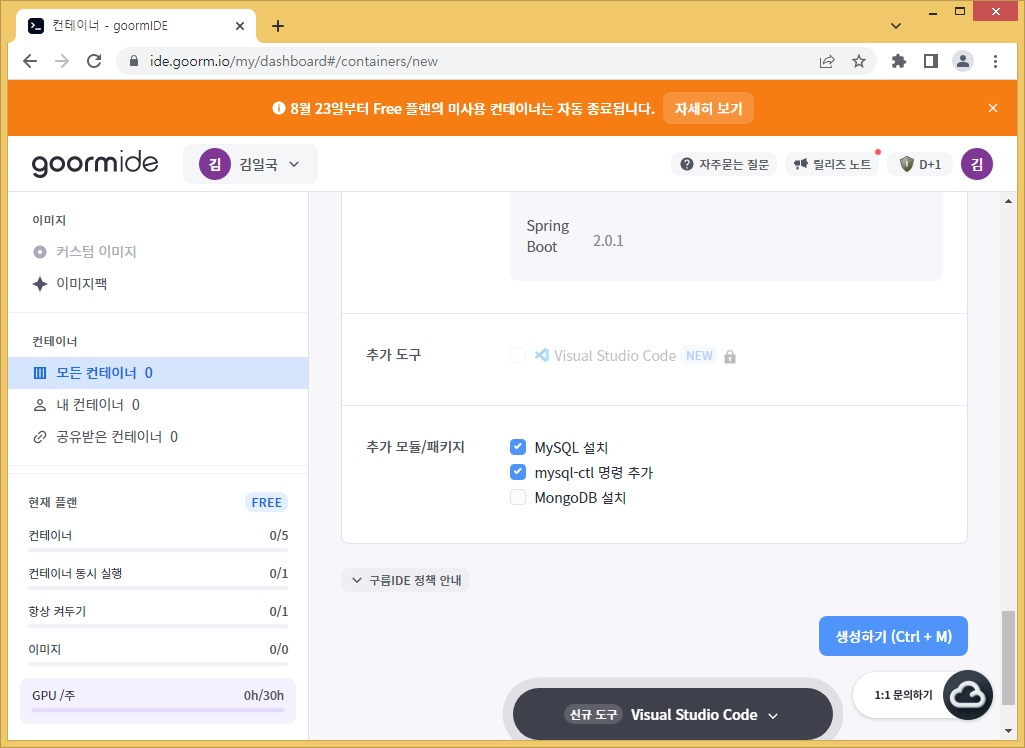
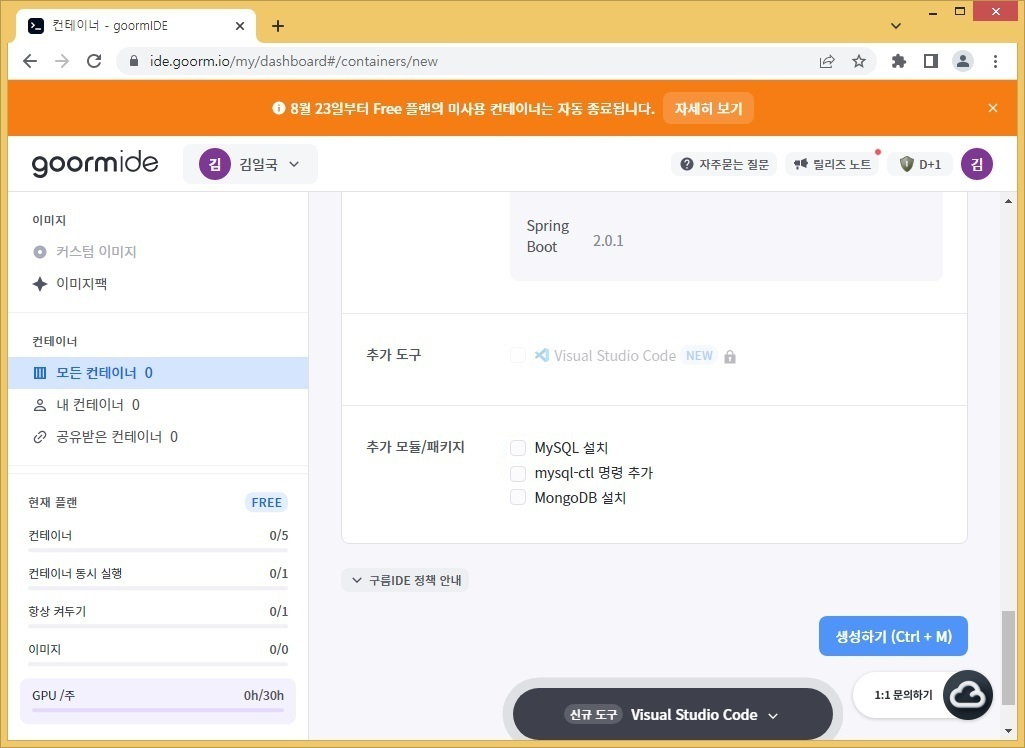
구름ide용 H2 DB를 사용한 간편한 실행소스

diff --git a/README.md b/README.md
@@ -67,8 +67,8 @@ jar {
 - ![스프링부트 템플릿을 선택](./README/goorm5.jpg)
 - 템플릿 중 그래들 빌더 프로젝트를 선택한다.(아래)
 - ![그래들 빌더 프로젝트를 선택](./README/goorm6.jpg)
-- 강의에서는 H2와 postgreSQL DB 2가지를 사용하지만, MySQL과 mysql-ctl을 선택 후 생성하기 버튼 클릭 한다.(아래)
-- ![MySQL과 mysql-ctl명령을 추가](./README/goorm7.jpg)
+- 강의에서는 postgreSQL DB를 사용한다, MySQL과 mysql-ctl은 선택하지 않고 하단 생성하기 버튼 클릭 한다.(아래)
+- ![생성하기 버튼 클릭](./README/goorm7.jpg)
 - 아래 엡 서비스를 항상켜두기 버튼을 활성화하기 위해 정지 시킨다.
 - ![항상켜두기 활서화](./README/goorm8.jpg)
 - 아래 엡 서비스를 항상켜두기 버튼을 활성화 시킨 후 실행 버튼으로 컨테이너에 들어간다.
